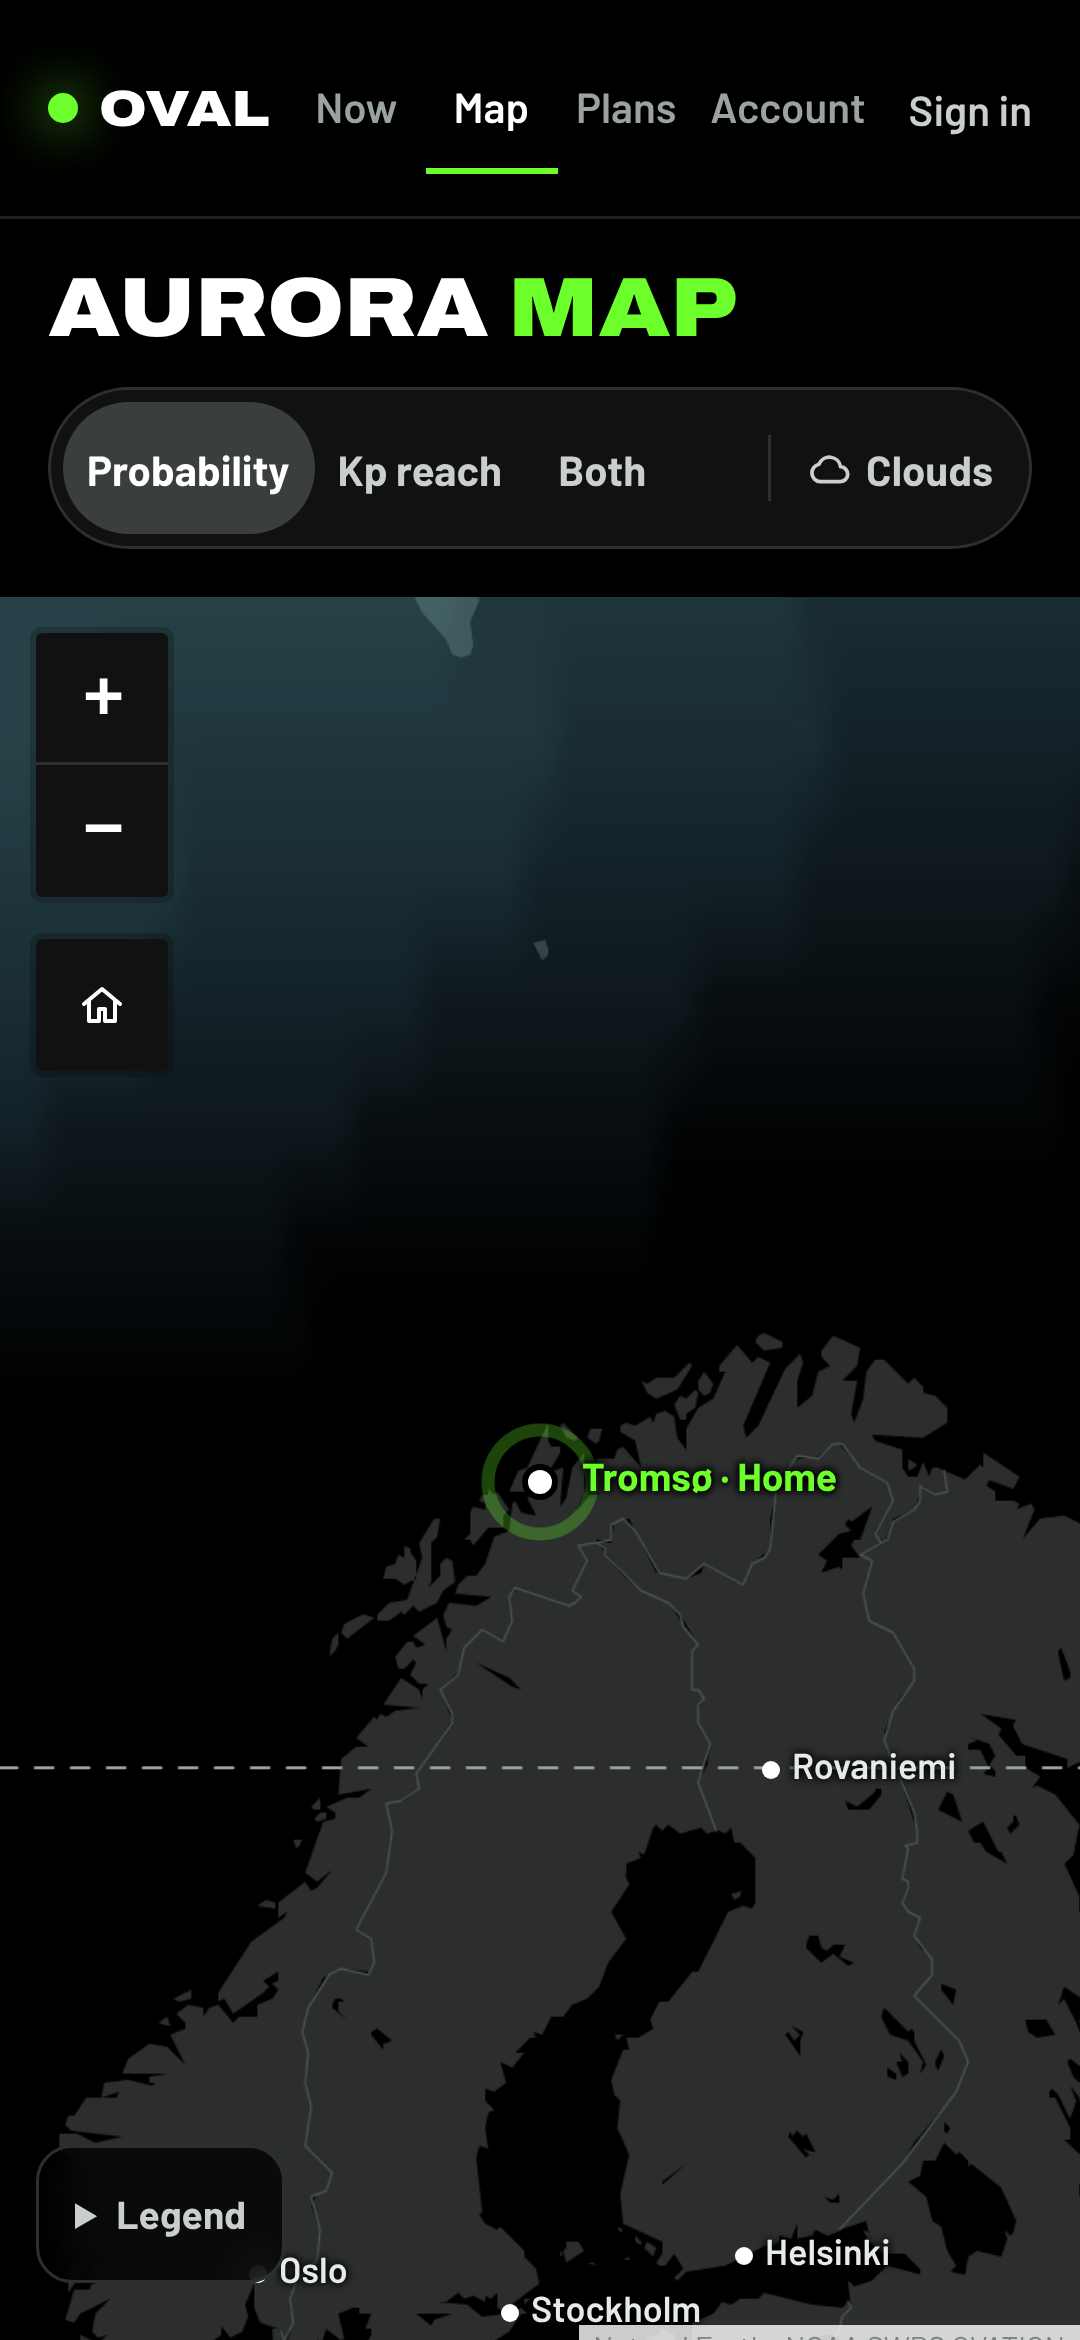
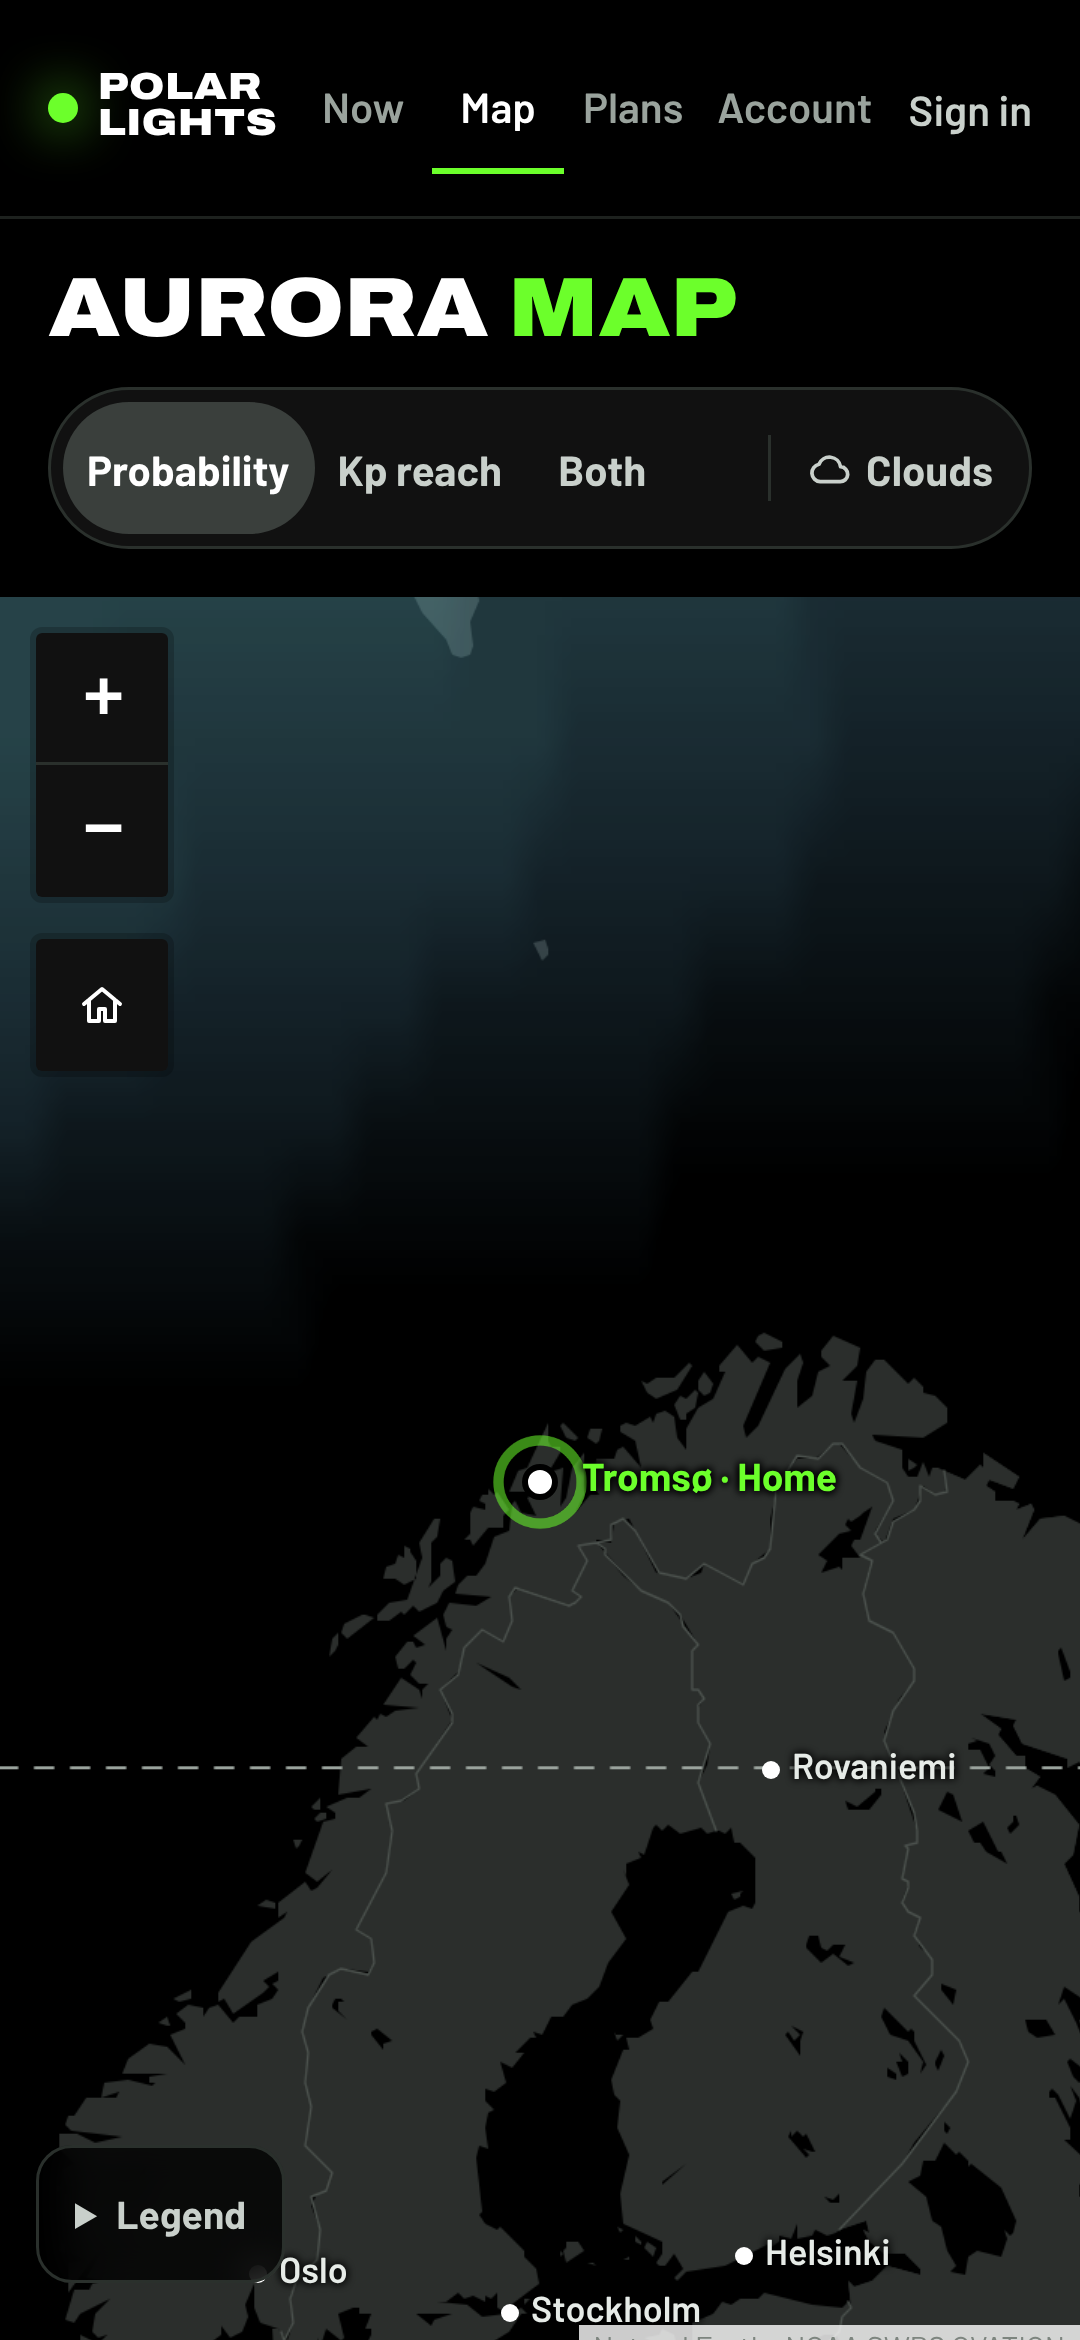
Rebrand to Polar Lights (polarlights.io)
- Brand name, domain and tagline in src/lib/site.ts; header wordmark
  'POLAR LIGHTS' (stacked on phones and tablets so the header stays one row),
  footer polarlights.io, page titles 'X · Polar Lights'.
- Manifest name 'Polar Lights · Aurora forecasts', short name 'Polar Lights';
  metadataBase and Open Graph point at https://polarlights.io.
- Service worker cache renamed (clears the old oval-v1 caches on update);
  feed User-Agent and Supabase docs/comments updated.
- README: polarlights.io as primary domain with auroracast.io redirecting,
  Play application ID suggestion io.polarlights.app.
- Install screenshots regenerated with the new header.

Claude-Session: https://claude.ai/code/session_012CrCYLZEfx1x1rGoXHPbfj

diff --git a/app/src/app/globals.css b/app/src/app/globals.css
@@ -86,7 +86,8 @@ button.pill-ghost { border: 1px solid var(--line-2); }
 .header-account { display: flex; align-items: center; gap: 10px; padding: 4px 4px 4px 14px; border: 1px solid var(--line-2); border-radius: 999px; }
 .header-signin { font-weight: 600; font-size: 15px; color: var(--soft); white-space: nowrap; }
 .header-plan { font-size: 13px; font-weight: 700; color: var(--green); }
-.brand-dot { width: 13px; height: 13px; border-radius: 50%; background: var(--green); box-shadow: 0 0 18px var(--green); }
+.brand-name { text-transform: uppercase; white-space: nowrap; }
+.brand-dot { flex: none; width: 13px; height: 13px; border-radius: 50%; background: var(--green); box-shadow: 0 0 18px var(--green); }
 .nav { display: flex; gap: 26px; font-size: 15px; font-weight: 600; }
 .nav-item { padding: 6px 0; border-bottom: 2px solid transparent; color: var(--muted); }
 .nav-item.on { color: #fff; border-bottom-color: var(--green); }
@@ -127,6 +128,11 @@ button.pill-ghost { border: 1px solid var(--line-2); }
 .account-signout { padding: 11px 14px; font-weight: 600; font-size: 15px; color: var(--muted); margin-top: 12px; border-top: 1px solid var(--line); }
 .night { display: grid; grid-template-columns: 130px 70px minmax(0, 1fr) 52px; align-items: center; gap: 16px; padding: 12px 0; border-bottom: 1px solid var(--line); }
 .alert-rule { display: grid; grid-template-columns: minmax(0, .8fr) minmax(0, 1.2fr); gap: 28px; padding: 26px; border: 1px solid var(--line-2); border-radius: 18px; }
+
+@media (max-width: 900px) {
+  .brand-name { display: flex; flex-direction: column; font-size: .74em; line-height: .92; letter-spacing: .02em; }
+  .header-kp { display: none; }
+}
 
 @media (max-width: 860px) {
   /* Sidebar becomes a header row: profile and sign out on top, tabs as a scrollable strip. */
@@ -203,11 +209,13 @@ button.pill-ghost { border: 1px solid var(--line-2); }
   .nav { gap: 11px; font-size: 14px; }
 }
 @media (max-width: 340px) {
-  .header-inner { gap: 8px; }
-  .header-left { gap: 10px; }
-  .brand { font-size: 15px; gap: 6px; }
-  .nav { gap: 9px; font-size: 13px; }
-  .header-signin { font-size: 13px; }
+  .header-inner { gap: 6px; }
+  .header-left { gap: 8px; }
+  .brand { font-size: 14px; gap: 5px; }
+  .brand-dot { width: 8px; height: 8px; }
+  .nav { gap: 8px; font-size: 12.5px; }
+  .header-signin { font-size: 12.5px; }
+  .header-inner { gap: 10px; }
 }
 
 /* Touch screens: every control gets at least a 44 px hit area (Android asks for 48 dp, Apple 44 pt).

diff --git a/app/src/components/Chrome.tsx b/app/src/components/Chrome.tsx
@@ -2,6 +2,7 @@
 
 import { initials, useAuth } from '../lib/auth';
 import { useStore, type Screen } from '../store';
+import { SITE } from '../lib/site';
 
 const NAV: [string, Screen][] = [['Now', 'home'], ['Map', 'map'], ['Plans', 'plans'], ['Account', 'account']];
 
@@ -13,8 +14,10 @@ export function Header({ kpLabel }: { kpLabel: string }) {
     <header className="header">
       <div className="wrap header-inner">
         <div className="header-left">
-          <button type="button" className="btn brand" onClick={() => go('home')}>
-            <span className="brand-dot" />OVAL
+          <button type="button" className="btn brand" onClick={() => go('home')} aria-label={`${SITE.name} home`}>
+            <span className="brand-dot" />
+            {/* Stacks to two lines on phones so the header stays on one row. */}
+            <span className="brand-name" aria-hidden="true"><span>Polar</span> <span>Lights</span></span>
           </button>
           <nav className="nav">
             {NAV.map(([label, screen]) => {
@@ -65,7 +68,7 @@ export function Footer() {
     <footer className="rule-top">
       <div className="wrap" style={{ display: 'flex', justifyContent: 'space-between', gap: 16, flexWrap: 'wrap', padding: '18px var(--gutter)', fontSize: 12, color: 'var(--dim)' }}>
         <span>Data: NOAA SWPC, GFZ Potsdam, NASA/SDO. Times in UT.</span>
-        <span style={{ color: 'var(--green)', fontWeight: 700 }}>oval.watch</span>
+        <span style={{ color: 'var(--green)', fontWeight: 700 }}>{SITE.domain}</span>
       </div>
     </footer>
   );

diff --git a/app/src/app/layout.tsx b/app/src/app/layout.tsx
@@ -7,13 +7,16 @@ import { kpNow } from '../lib/feeds';
 import { AuthProvider } from '../lib/auth';
 import { LocationsProvider } from '../lib/locations';
 import { StoreProvider } from '../store';
+import { SITE } from '../lib/site';
 import { ServiceWorker } from '../components/ServiceWorker';
 
 export const metadata: Metadata = {
-  title: 'OVAL · Aurora monitor',
+  metadataBase: new URL(SITE.url),
+  title: { default: `${SITE.name} · ${SITE.tagline}`, template: `%s · ${SITE.name}` },
   description: 'Live aurora forecasts, the auroral oval, and alerts for your sky.',
-  applicationName: 'OVAL',
-  appleWebApp: { capable: true, title: 'OVAL', statusBarStyle: 'black' },
+  applicationName: SITE.name,
+  appleWebApp: { capable: true, title: SITE.name, statusBarStyle: 'black' },
+  openGraph: { type: 'website', siteName: SITE.name, url: '/', images: [{ url: '/icons/icon-512.png', width: 512, height: 512 }] },
   icons: {
     icon: [{ url: '/icons/icon.svg', type: 'image/svg+xml' }, { url: '/icons/icon-192.png', sizes: '192x192', type: 'image/png' }],
     apple: '/icons/apple-touch-icon.png',

diff --git a/app/src/app/offline/page.tsx b/app/src/app/offline/page.tsx
@@ -1,7 +1,7 @@
 import type { Metadata } from 'next';
 import { Retry } from './Retry';
 
-export const metadata: Metadata = { title: 'Offline · OVAL' };
+export const metadata: Metadata = { title: 'Offline' };
 
 /** Shown by the service worker when a page is requested with no connection and no cached copy. */
 export default function Offline() {
@@ -10,7 +10,7 @@ export default function Offline() {
       <span className="kicker">NO CONNECTION</span>
       <h1 className="display" style={{ fontSize: 'var(--h-hero)', lineHeight: .88 }}>You’re <span className="hl">offline</span></h1>
       <p style={{ margin: 0, fontSize: 17, lineHeight: 1.5, color: 'var(--soft)' }}>
-        OVAL needs a connection for live aurora data. Pages you opened recently are still available, showing the data from when you last loaded them.
+        Polar Lights needs a connection for live aurora data. Pages you opened recently are still available, showing the data from when you last loaded them.
       </p>
       <Retry />
     </main>

diff --git a/app/public/sw.js b/app/public/sw.js
@@ -1,8 +1,8 @@
-// OVAL service worker: keeps the app usable on weak or no signal (common at dark-sky spots).
+// Polar Lights service worker: keeps the app usable on weak or no signal (common at dark-sky spots).
 // - Pages: network first, falling back to the last copy viewed, then to /offline.
 // - Live data (/api/*): network first, falling back to the last response.
 // - Build assets, map geometry and icons: cache first (they are versioned or rarely change).
-const VERSION = 'oval-v1';
+const VERSION = 'polarlights-v1'; // changing this clears older caches (including the pre-rebrand oval-v1-*)
 const PAGES = `${VERSION}-pages`, DATA = `${VERSION}-data`, STATIC = `${VERSION}-static`;
 const PRECACHE = ['/offline', '/icons/icon-192.png', '/icons/icon-512.png', '/geo/countries-50m.json', '/geo/lakes-50m.geo.json'];
 

diff --git a/app/src/app/manifest.ts b/app/src/app/manifest.ts
@@ -1,11 +1,12 @@
 import type { MetadataRoute } from 'next';
+import { SITE } from '../lib/site';
 
-/** Web app manifest: makes OVAL installable and is the source for the Android (Trusted Web Activity) build. */
+/** Web app manifest: makes Polar Lights installable and is the source for the Android (Trusted Web Activity) build. */
 export default function manifest(): MetadataRoute.Manifest {
   return {
     id: '/',
-    name: 'OVAL · Aurora monitor',
-    short_name: 'OVAL',
+    name: `${SITE.name} · ${SITE.tagline}`,
+    short_name: SITE.name,
     description: 'Live aurora forecasts, the auroral oval, cloud cover and alerts for your sky.',
     start_url: '/?source=pwa',
     scope: '/',

diff --git a/app/src/lib/feeds.ts b/app/src/lib/feeds.ts
@@ -14,7 +14,7 @@ type Row = Record<string, unknown>;
 
 async function getJson(url: string, revalidate: number): Promise<unknown | null> {
   try {
-    const res = await fetch(url, { next: { revalidate }, headers: { 'User-Agent': 'oval.watch (aurora monitor)' } });
+    const res = await fetch(url, { next: { revalidate }, headers: { 'User-Agent': 'polarlights.io (aurora forecasts)' } });
     if (!res.ok) return null;
     return await res.json();
   } catch {

diff --git a/supabase/functions/ingest-space-weather/index.ts b/supabase/functions/ingest-space-weather/index.ts
@@ -8,7 +8,7 @@ type Row = Record<string, unknown>;
 
 async function json(url: string): Promise<unknown | null> {
   try {
-    const r = await fetch(url, { headers: { 'User-Agent': 'oval.watch ingest' } });
+    const r = await fetch(url, { headers: { 'User-Agent': 'polarlights.io ingest' } });
     return r.ok ? await r.json() : null;
   } catch {
     return null;

diff --git a/app/src/data.ts b/app/src/data.ts
@@ -108,6 +108,6 @@ export const TRIGGER_DEFS: [TriggerKey, string, string, number][] = [
 
 export const CHANNEL_DEFS: [ChannelKey, string, string, number][] = [
   ['email', 'Email', 'sam@example.com', 0],
-  ['push', 'Push', 'iPhone 15 · OVAL app', 1],
+  ['push', 'Push', 'Pixel 8 · Polar Lights app', 1],
   ['sms', 'SMS', '+1 (612) •••-4410', 1],
 ];

diff --git a/app/src/app/map/page.tsx b/app/src/app/map/page.tsx
@@ -2,7 +2,7 @@ import type { Metadata } from 'next';
 import { kpNow } from '../../lib/feeds';
 import { AuroraMap } from '../../screens/AuroraMap';
 
-export const metadata: Metadata = { title: 'Aurora map · OVAL' };
+export const metadata: Metadata = { title: 'Aurora map' };
 export const revalidate = 120;
 
 export default async function Page() {

diff --git a/app/src/app/account/page.tsx b/app/src/app/account/page.tsx
@@ -2,7 +2,7 @@ import type { Metadata } from 'next';
 import { Account } from '../../screens/Account';
 import { loadAccount } from '../../lib/history';
 
-export const metadata: Metadata = { title: 'Account · OVAL' };
+export const metadata: Metadata = { title: 'Account' };
 export const revalidate = 1800;
 
 export default async function Page() {

diff --git a/app/src/app/reset-password/page.tsx b/app/src/app/reset-password/page.tsx
@@ -1,7 +1,7 @@
 import type { Metadata } from 'next';
 import { ResetPassword } from '../../screens/ResetPassword';
 
-export const metadata: Metadata = { title: 'Set a new password · OVAL' };
+export const metadata: Metadata = { title: 'Set a new password' };
 
 export default function Page() {
   return <ResetPassword />;
